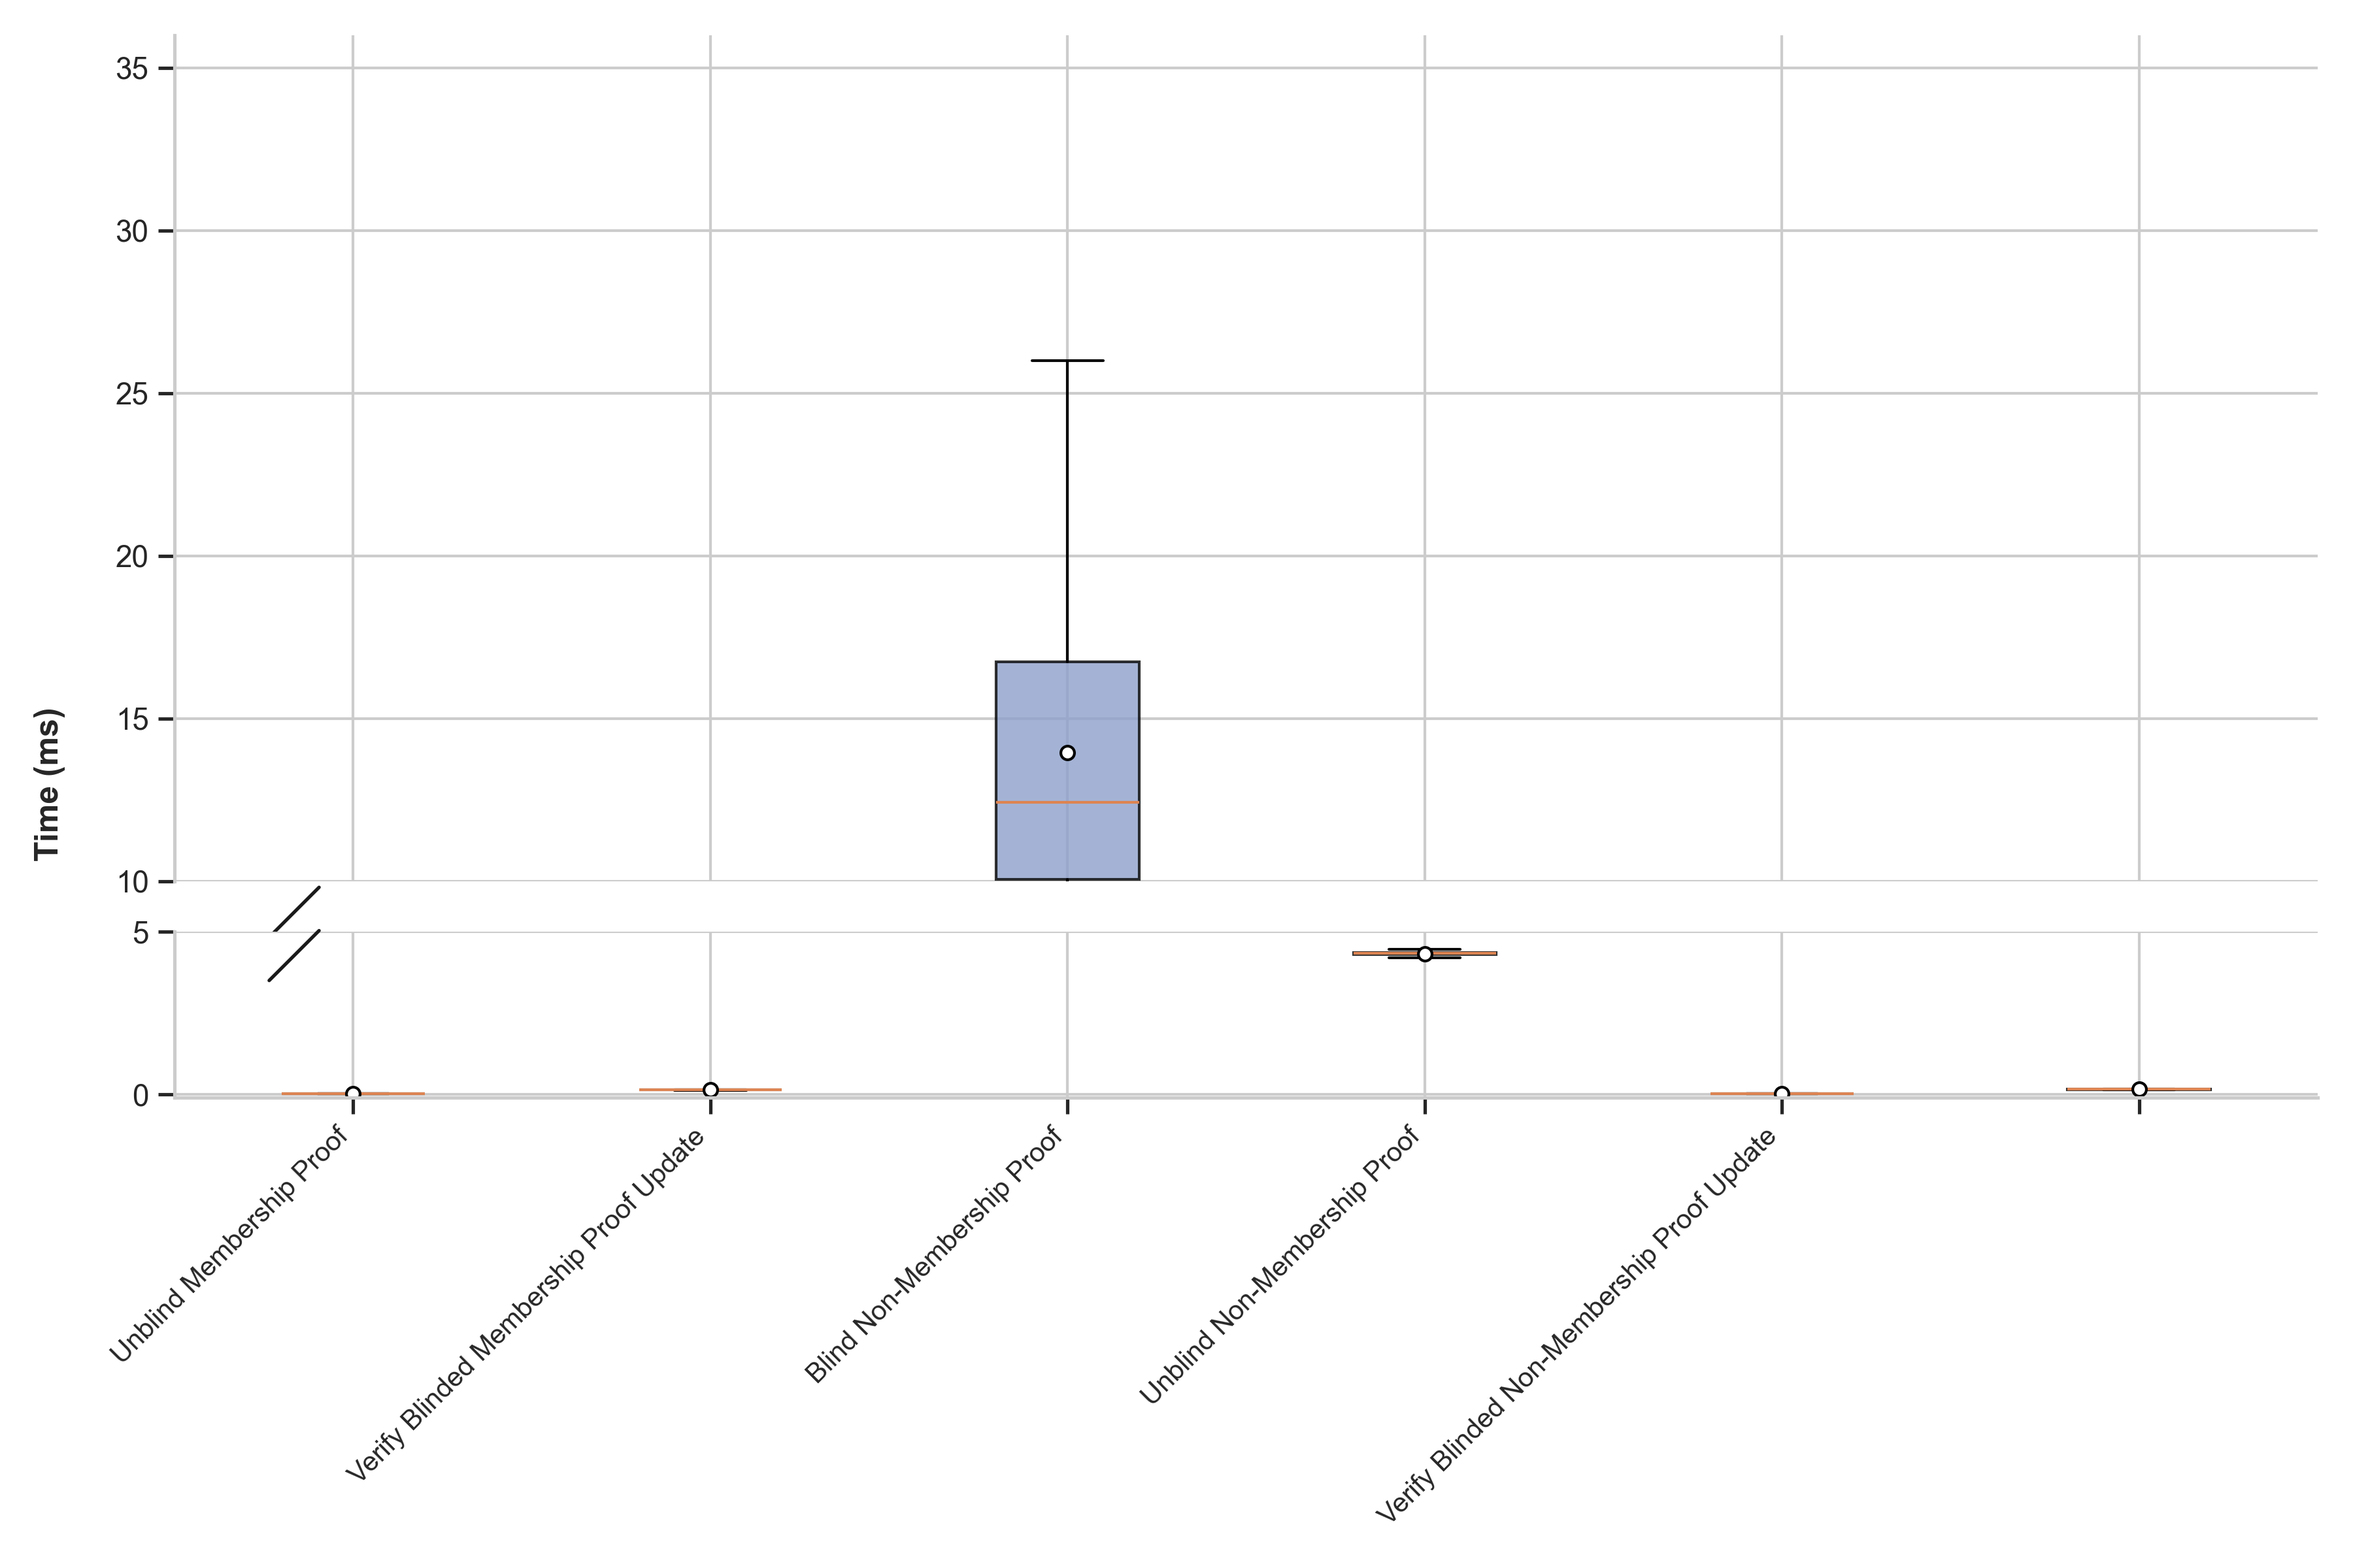
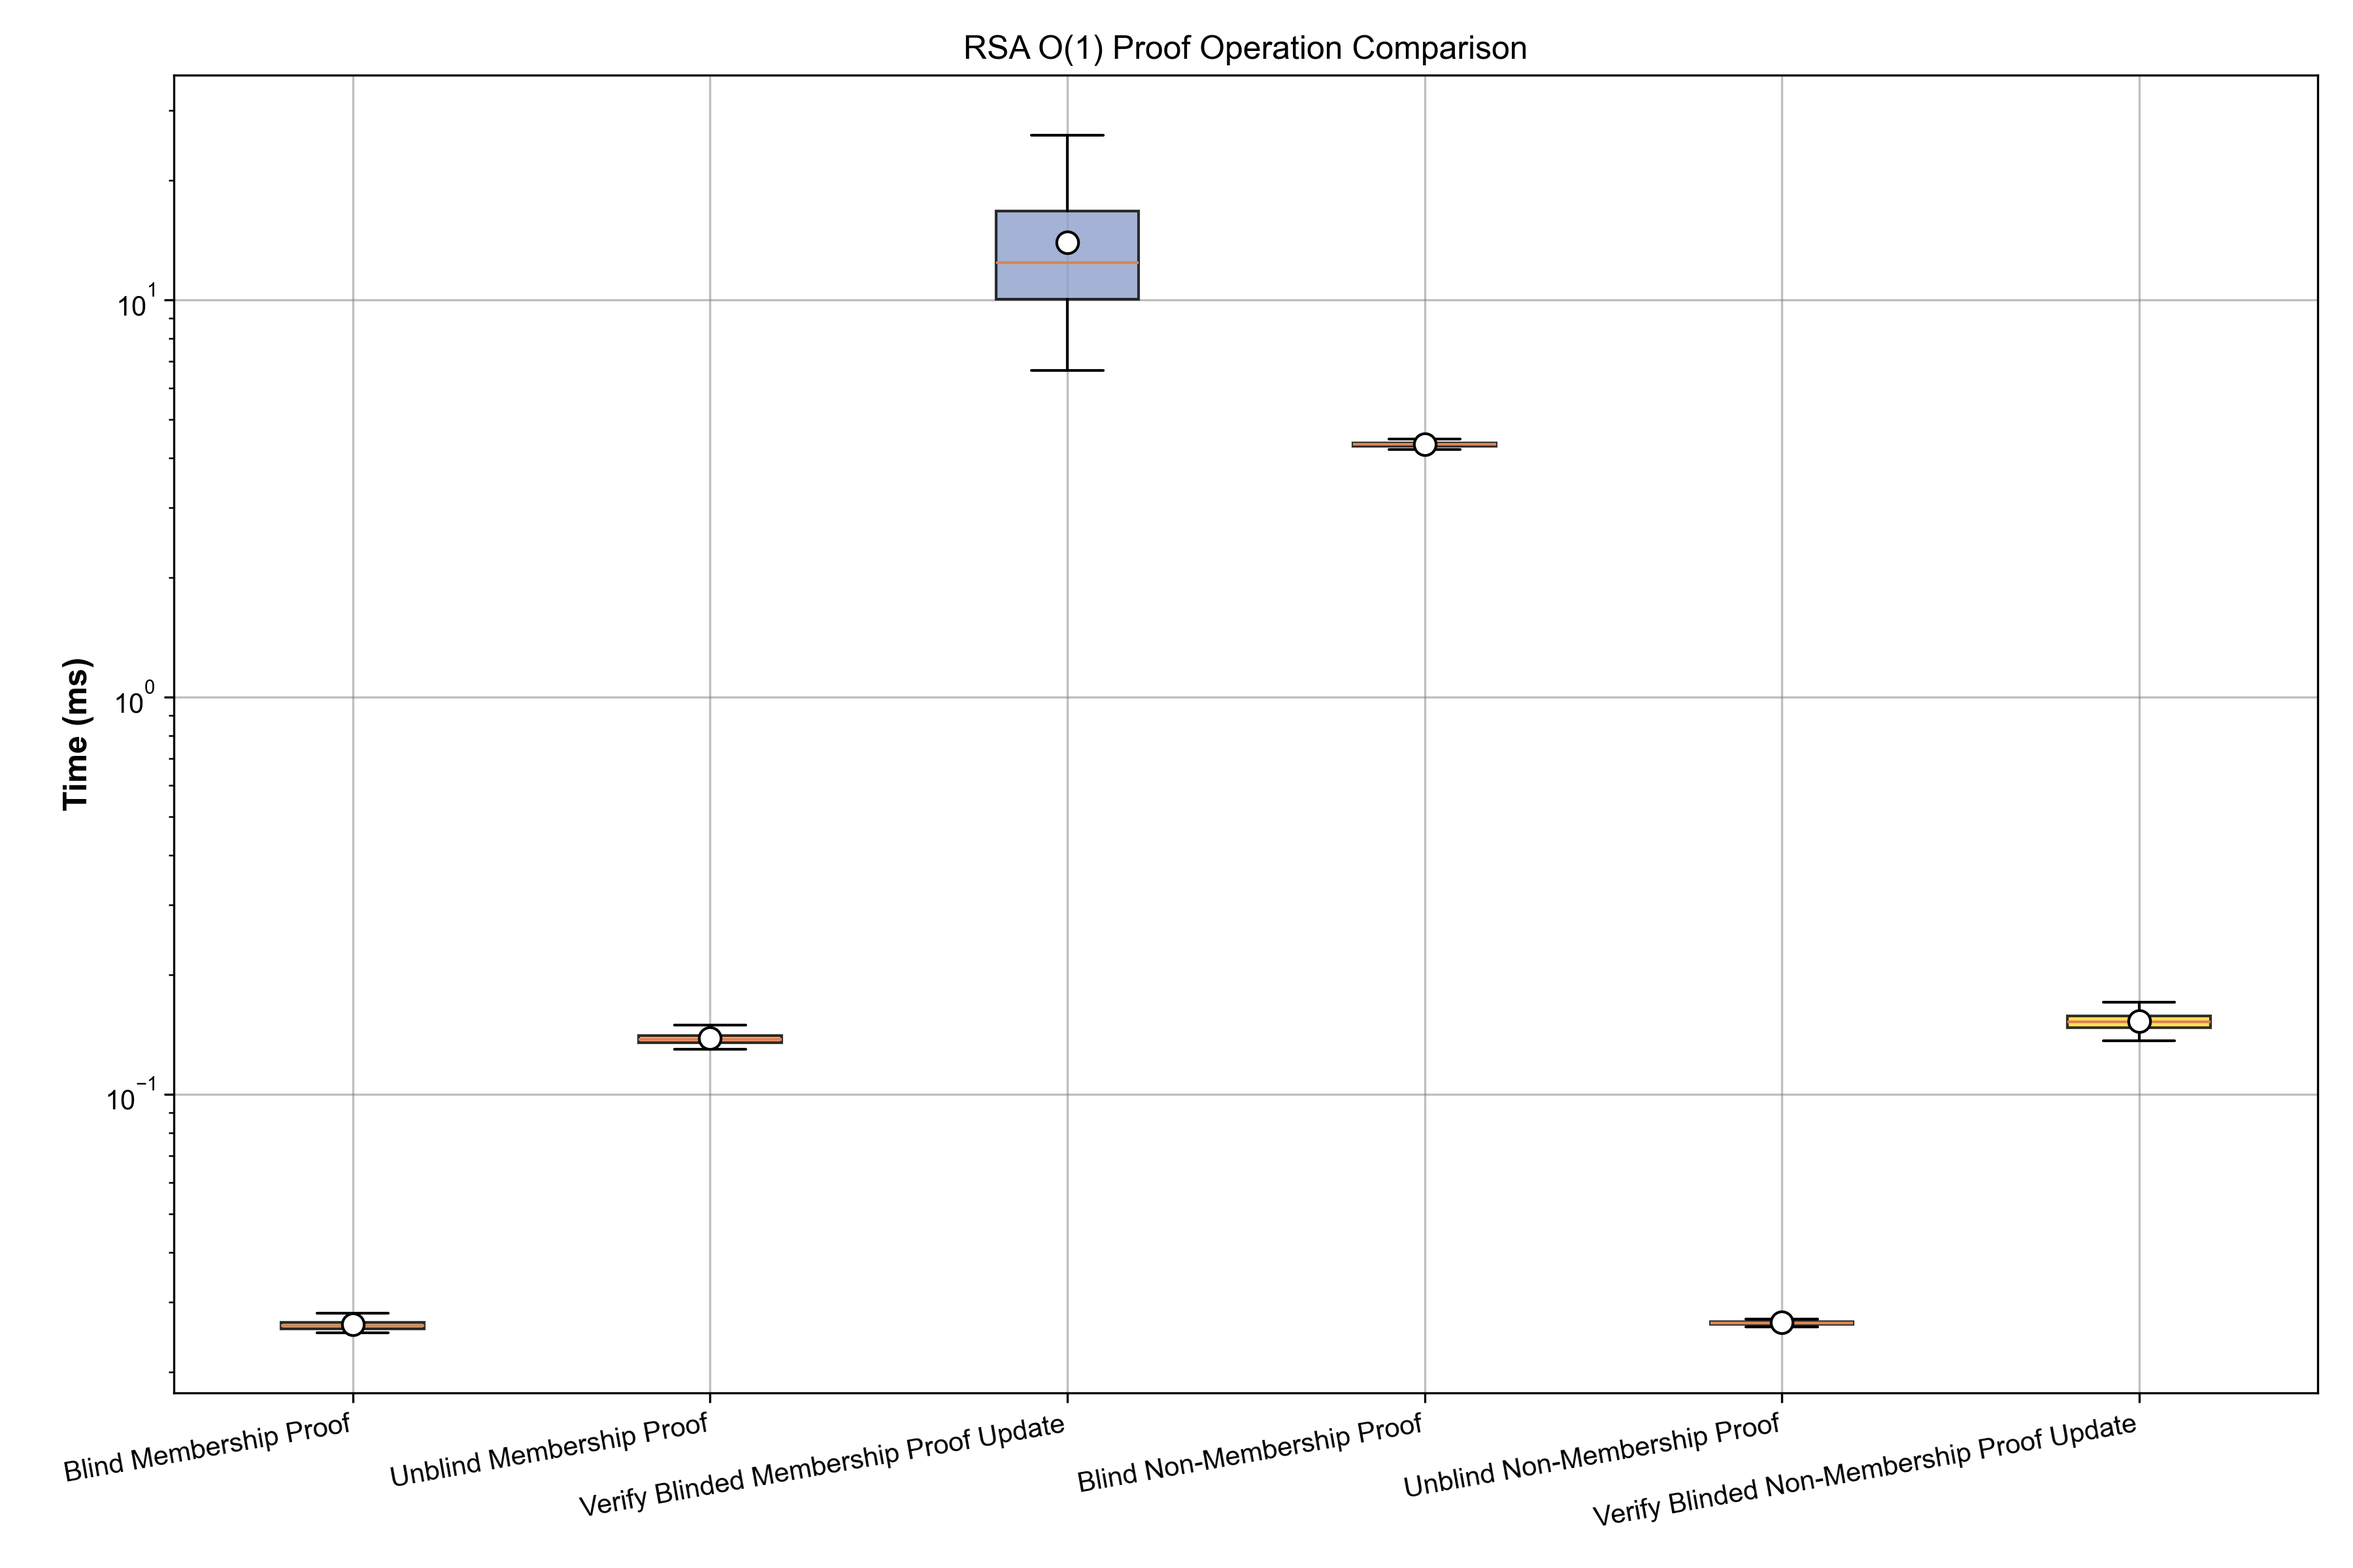
changed y axes to log in O(1) algos plot + created trapdoorless setting for updating blind non_membership proof + re-plot them

diff --git a/figures/plot_On_results.py b/figures/plot_On_results.py
@@ -5,9 +5,23 @@ import seaborn as sns
 import matplotlib.pyplot as plt
 
 # Configuration
-BASE_DIR = "target/criterion/accumulator_compare"
+BENCHMARKS_UPDATES = [
+    {
+        "label": "Blind Membership Proof Update",
+        "base_dir": "target/criterion/membership_proofs",
+        "bench_name": "blind_mem_proof_upd",
+        "linestyle": "-"
+    },
+    {
+        "label": "Blind Non-Membership Proof Update",
+        "base_dir": "target/criterion/non_membership_proofs",
+        "bench_name": "blind_non_mem_proof_upd",
+        "linestyle": "--"
+    }
+]
 
-BENCHMARKS = {
+BASE_DIR_COMPARE = "target/criterion/accumulator_compare"
+BENCHMARKS_COMPARE = {
     "rsa_add_n": "RSA Add",
     "bilinear_add_n": "Bilinear Add",
     "rsa_mem_proof": "RSA Membership Proof",
@@ -50,15 +64,24 @@ def load_criterion_data(base_dir, bench_name):
 # Main Execution
 print("Loading samples from Criterion..")
 series = {}
-for bench_name, label in BENCHMARKS.items():
-    df = load_criterion_data(BASE_DIR, bench_name)
+
+for bench_name, label in BENCHMARKS_COMPARE.items():
+    df = load_criterion_data(BASE_DIR_COMPARE, bench_name)
     if df.empty:
         continue
     df = df.sort_values("Elements")
     series[label] = df
 
+
+for bench in BENCHMARKS_UPDATES:
+    df = load_criterion_data(bench["base_dir"], bench["bench_name"])
+    if not df.empty:
+        df = df.sort_values("Elements")
+        series[bench["label"]] = df
+
+
 if not series:
-    print(f"No data found. Check the {BASE_DIR} path")
+    print(f"No data found. Check the {BASE_DIR_COMPARE} path")
     exit()
 
 for label, df in series.items():
@@ -121,5 +144,36 @@ output_file_mem = "figures/images/accumulator_mem_proof_scaling.png"
 plt.tight_layout()
 plt.savefig(output_file_mem, dpi=300)
 print(f"\nSuccess! Chart saved to: {output_file_mem}")
+
+
+# Visualization: Update Blind Proofs Scaling
+plt.figure(figsize=(10, 6))
+sns.set_theme(style="whitegrid")
+
+for bench in BENCHMARKS_UPDATES:
+    label = bench["label"]
+    if label in series:
+        df = series[label]
+        
+        plt.plot(
+            df["Elements"], 
+            df["Time (s)"], 
+            marker="o", 
+            linestyle=bench["linestyle"], 
+            linewidth=2.5, 
+            markersize=7, 
+            label=label
+        )
+
+
+plt.xlabel("Number of elements", fontsize=12)
+plt.ylabel("Time (seconds)", fontsize=12)
+plt.title("Trapdoorless Accumulator Blind Update Proof Scaling")
+plt.grid(True, linestyle="--", alpha=0.7)
+plt.legend()
+plt.tight_layout()
+output_file_upd = "figures/images/trapdoorless_accumulator_blind_update_proof_scaling.png"
+plt.savefig(output_file_upd, dpi=300)
+print(f"\nSuccess! Chart saved to: {output_file_upd}")
 
 plt.show()

diff --git a/src/rsa_accumulator.rs b/src/rsa_accumulator.rs
@@ -252,6 +252,7 @@ impl RsaAccumulator {
         let bnmp_str_int = BigInt::from(blinded_non_mem_proof.clone());
 
         let ExtendedGcd { gcd: _, x, y } = Integer::extended_gcd(&s, &bnmp_str_int);
+        
         if let Some(t) = self.totient.as_ref() {
             let totient_int = t.to_bigint().unwrap();
             let a = ((x % &totient_int + &totient_int) % &totient_int)
@@ -263,7 +264,30 @@ impl RsaAccumulator {
             let upd_blinded_non_mem_proof = (a, self.g.modpow(&b, &self.n));
             upd_blinded_non_mem_proof
         } else {
-            todo!()
+            
+            let mut a_int = x % &bnmp_str_int;
+            if a_int < BigInt::ZERO {
+                a_int += &bnmp_str_int;
+            }
+            let a = a_int.to_biguint().unwrap();
+
+            let b_int = (BigInt::from(1) - &a_int * &s) / &bnmp_str_int;
+
+            let g_int = BigInt::from(self.g.clone());
+            let n_int = BigInt::from(self.n.clone());
+            
+            let ExtendedGcd { gcd: _, x: inv_x, y: _ } = Integer::extended_gcd(&g_int, &n_int);
+            let mut inv_g_int = inv_x % &n_int;
+            if inv_g_int < BigInt::ZERO {
+                inv_g_int += &n_int;
+            }
+
+            let inv_g = inv_g_int.to_biguint().unwrap();
+
+            let abs_b = (-b_int).to_biguint().unwrap();
+
+            let upd_blinded_non_mem_proof = (a, inv_g.modpow(&abs_b, &self.n));
+                upd_blinded_non_mem_proof
         }
     }
 

diff --git a/figures/plot_O1_results.py b/figures/plot_O1_results.py
@@ -1,5 +1,6 @@
 import os
 import json
+from matplotlib.ticker import LogLocator
 import pandas as pd
 import seaborn as sns
 import matplotlib.pyplot as plt
@@ -80,7 +81,7 @@ print("\n--- Statistical Summary ---")
 print(df.groupby("Operation")["Time (ms)"].describe())
 
 # Visualization
-plt.figure(figsize=(12, 8))
+fig, ax = plt.subplots(figsize=(12,8))
 sns.set_theme(style="whitegrid")
 
 op_names = df["Operation"].unique()
@@ -106,9 +107,14 @@ for patch, color in zip(bplot["boxes"], colors):
     patch.set_facecolor(color)
     patch.set_alpha(0.8)
 
+ax.set_yscale('log')
+ax.yaxis.set_minor_locator(LogLocator(base=10.0, subs='auto', numticks=12))
+ax.yaxis.set_minor_formatter(plt.NullFormatter())
+ax.grid(visible=True, which='major', axis='both', color='gray', linestyle='-', alpha=0.5)
+
 plt.xticks(range(1, len(op_names) + 1), op_names, rotation=10, ha="right")
 plt.ylabel("Time (ms)", fontsize=12, fontweight="bold")
-plt.title("O(1) Proof Operation Comparison")
+plt.title("RSA O(1) Proof Operation Comparison")
 
 output_file = "figures/images/membership_proofs_boxplot.png"
 plt.tight_layout()

diff --git a/benches/bench_rsa.rs b/benches/bench_rsa.rs
@@ -281,7 +281,7 @@ fn benchmark_ver_blind_non_mem_proof_upd(c: &mut Criterion) {
 
     group.finish();
 }
-
+ 
 fn benchmark_blind_non_mem_proof_upd(c: &mut Criterion) {
     let mut group = c.benchmark_group("non_membership_proofs");
 
